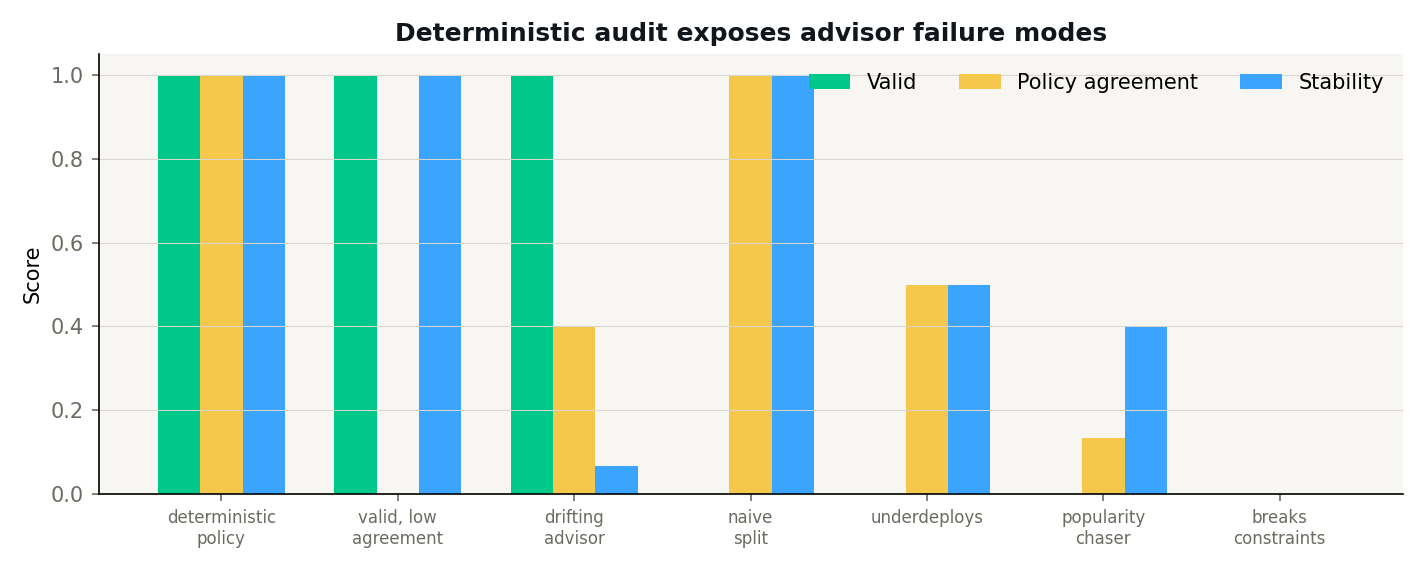
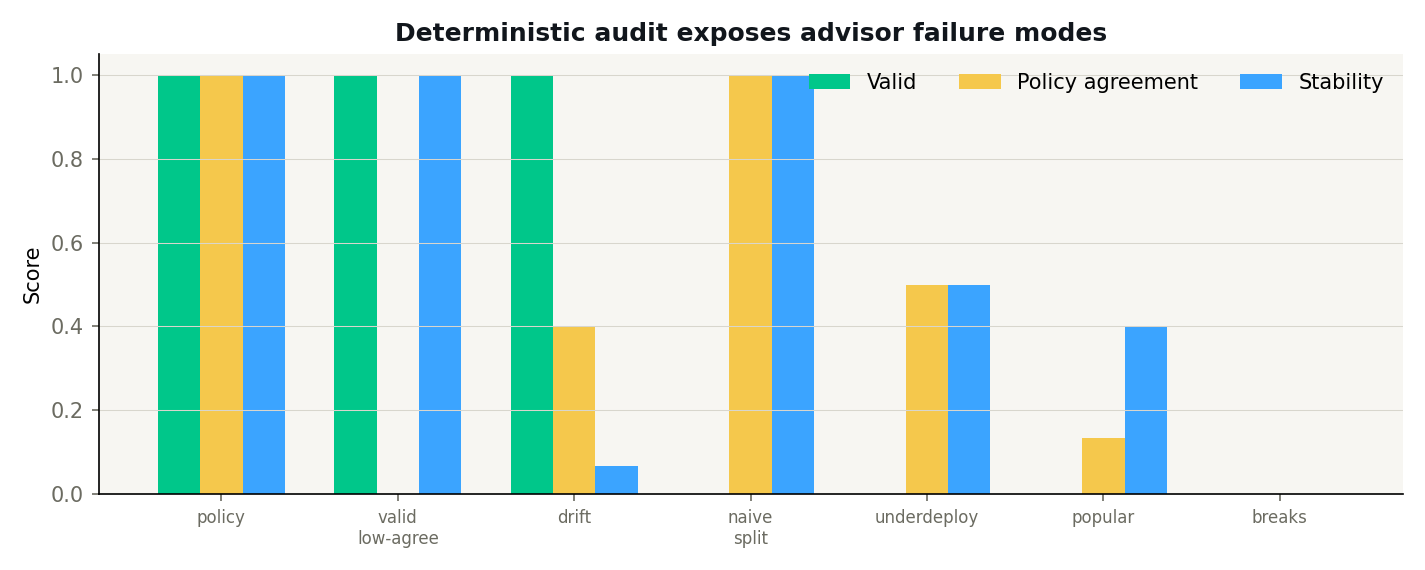
Strengthen finance related work and add TikZ audit figure

diff --git a/paper/main.tex b/paper/main.tex
@@ -5,6 +5,11 @@
 \renewcommand\footnotetextcopyrightpermission[1]{}
 \pagestyle{plain}
 \emergencystretch=2em
+\usepackage{pgfplots}
+\pgfplotsset{compat=1.18}
+\definecolor{arenaGreen}{HTML}{00C78A}
+\definecolor{arenaGold}{HTML}{F5C84C}
+\definecolor{arenaBlue}{HTML}{3BA4FF}
 
 \title{Auditing AI Investment Recommendations Against a Deterministic,
 Replayable Baseline}
@@ -26,8 +31,8 @@ compounding policy with provable cost guardrails---together with an audit
 protocol that scores any advisor on three independent axes: operational
 \emph{validity} under explicit constraints, \emph{stability} across repeated
 runs, and \emph{agreement} with the baseline. On a set of frozen scenarios we
-show the axes are independent: a control that agrees perfectly with the policy
-and is perfectly stable is nonetheless \emph{invalid} because it wastes fees,
+show the axes are independent: a control with $\mathrm{agree}=1.0$ and
+$\mathrm{stab}=1.0$ is nonetheless \emph{invalid} because it wastes fees,
 while a valid control is unstable. An evaluation that reports only
 recommendation overlap would rank both as good advice. The baseline earns its
 role as a yardstick through reproducibility: its cost behavior is provable (the
@@ -67,8 +72,9 @@ yardstick rests on reproducibility, not on a claim to beat the market.
 \begin{enumerate}
   \item An audit protocol and a frozen-scenario benchmark that score any advisor
   on validity, stability, and agreement, and a finding that these axes are
-  \emph{independent}: a control can agree perfectly and be perfectly stable yet
-  be invalid, so agreement-only evaluation is misleading (Section~\ref{sec:audit}).
+  \emph{independent}: a control can reach $\mathrm{agree}=1.0$ and
+  $\mathrm{stab}=1.0$ yet be invalid, so agreement-only evaluation is
+  misleading (Section~\ref{sec:audit}).
   \item The deterministic baseline that makes the protocol trustworthy: its fee
   is provably subadditive and its economic order floor is a closed-form fixed
   point (Sections~\ref{sec:fees}--\ref{sec:guardrail}); exhaustive reproducible
@@ -86,45 +92,46 @@ Our work sits at the intersection of four lines.
 
 \paragraph{What to own: quality and profitability.}
 Factor research establishes durable signals for security selection: gross
-profitability \cite{novyMarx2013} and the quality-minus-junk composite
-\cite{asness2019qmj}. We treat selection as given and do not propose a new
-factor; our scoring reuses these signals only to rank an existing basket. The
-contribution is orthogonal---the layer that decides \emph{how to deploy cash}
-into an already-chosen basket, net of frictions.
+profitability \cite{novyMarx2013}, the quality-minus-junk composite
+\cite{asness2019qmj}, and high-dimensional machine-learning predictors in the
+cross-section \cite{gu2020machine}. We treat selection as given and do not
+propose a new factor; our scoring reuses such signals only to rank an existing
+basket. This choice matters for scope. A stock-picking paper must show
+out-of-sample alpha against factor and machine-learning baselines. Our claim is
+orthogonal---the layer that audits \emph{whether advice can be executed}
+replayably and cheaply once a candidate set exists.
 
 \paragraph{How to trade it: transaction-cost theory and planning.}
 Classical theory shows that transaction costs induce a \emph{no-trade region}:
 proportional costs make the optimal policy a band around the target where one
-does not rebalance \cite{constantinides1986capital, davis1990portfolio}. Fixed
-plus linear costs turn allocation into a mixed-integer or convex program
-\cite{lobo2007portfolio}, and richer institutional models add liquidity and
-market-impact terms \cite{zhang2019dynamic}. On the operational side, rebalancing
-under fixed per-transaction fees can be cast as a planning problem solved by
-linear programming or heuristic search \cite{delarosa2023planning}. We differ on
-three axes. First, our fee is \emph{quantized}---a step function in order
-size---so the object of study is its subadditivity, not a smooth or purely linear
-cost. Second, we analyze the recurring \emph{incremental} deployment of small
-cash rather than a one-shot rebalance or a full trade plan. Third, we prioritize
-closed-form, auditable guardrails over numerical optimality, because a decision a
-retail investor cannot inspect is a decision they cannot trust. The fixed-cost
-guardrail is the small-cash analogue of the no-trade region: below the floor, the
-optimal action is to hold.
+does not rebalance \cite{constantinides1986capital, davis1990portfolio}. With
+multiple assets, costs produce explicit no-trade geometry
+\cite{liu2004transaction}, partial adjustment under predictable returns
+\cite{garleanu2013dynamic}, mixed-integer or convex programs
+\cite{lobo2007portfolio}, and liquidity or market-impact terms
+\cite{zhang2019dynamic}. Fixed-fee rebalancing can also be posed as linear
+programming or heuristic search \cite{delarosa2023planning}. Our object is
+narrower and more auditable: recurring small-cash deployment under a quantized
+step fee. The fixed-cost guardrail is the small-cash analogue of the no-trade
+region: below the floor, the optimal action is to hold.
 
 \paragraph{Evaluating learned investment advice.}
 A fast-growing line uses language models to recommend assets or build portfolios
 and evaluates them mainly by return or by alignment with a reference: media-driven
 LLM portfolios report strong but short-horizon gains \cite{oh2025alpha}, and
 knowledge-graph-aligned recommenders are scored on behavioral alignment
-\cite{spadea2025flarko}. A complementary line documents failure modes a return or
-overlap score cannot see: LLM risk assessments vary with irrelevant demographic
-attributes \cite{chawla2025riskadvice}, and investment analyses carry latent,
-confirmation-seeking bias \cite{lee2025bias}; surveys flag interpretability and
-generalizability as open problems \cite{elalami2025mlfinance}. What is missing is
-a single evaluation that places a learned advisor against a transparent,
-replayable baseline and measures, together, whether its advice is operationally
-\emph{valid}, \emph{stable} across runs, and how far it \emph{agrees} with the
-baseline. We supply that baseline and protocol; the advisor under test may be an
-LLM, a robo-allocator, or a heuristic.
+\cite{spadea2025flarko}. Top-finance evidence on robo-advice is more cautious:
+large-scale field evidence shows that automated advice can reduce behavioral
+biases but does not eliminate them \cite{dacunto2019robo}. A complementary line
+documents failure modes a return or overlap score cannot see: LLM risk
+assessments vary with irrelevant demographic attributes \cite{chawla2025riskadvice},
+and investment analyses carry latent, confirmation-seeking bias \cite{lee2025bias};
+surveys flag interpretability and generalizability as open problems
+\cite{elalami2025mlfinance}. What is missing is a single evaluation that places a
+learned advisor against a transparent, replayable baseline and measures, together,
+whether its advice is operationally \emph{valid}, \emph{stable} across runs, and
+how far it \emph{agrees} with the baseline. We supply that baseline and protocol;
+the advisor under test may be an LLM, a robo-allocator, or a heuristic.
 
 \paragraph{Whether to believe it: reproducibility over overfitting.}
 A large fraction of reported strategy performance does not survive out of
@@ -200,8 +207,8 @@ score it on:
 To show that no single axis substitutes for the others, we run the protocol on
 seven deterministic \emph{archetype} controls across frozen scenarios---failure
 modes by construction, not model outputs
-(Figure~\ref{fig:audit}). Two are decisive. A \emph{naive diversifier} that
-agrees perfectly with the baseline ($\mathrm{agree}=1.0$) and never wavers
+(Figure~\ref{fig:audit}). Two are decisive. A \emph{naive diversifier} with
+$\mathrm{agree}=1.0$ against the baseline and no repeated-run drift
 ($\mathrm{stab}=1.0$) is nonetheless \emph{invalid} ($\mathrm{valid}=0.0$): it
 splits sub-tranche cash and pays an avoidable fee. Conversely a
 \emph{valid-but-disagreeing} control is fully valid and stable yet shares
@@ -212,7 +219,7 @@ therefore independent axes; an advisor benchmark must report all three.
 
 \begin{figure}[t]
   \centering
-  \includegraphics[width=\columnwidth]{figures/ai_advisor_audit.png}
+  \input{figures/ai_advisor_audit.tikz}
   \caption{Validity, agreement, and stability for the archetype controls. The
   naive diversifier (high agreement and stability, zero validity) and the
   valid-but-disagreeing control (high validity and stability, zero agreement)

diff --git a/scripts/run_ai_advisor_audit.py b/scripts/run_ai_advisor_audit.py
@@ -33,6 +33,7 @@ ROOT = Path(__file__).resolve().parent.parent
 DEFAULT_SCENARIOS = ROOT / "paper" / "data" / "ai_advisor_scenarios.json"
 REFERENCE_OUTPUT = ROOT / "paper" / "data" / "ai_advisor_audit_reference.json"
 FIGURE_OUTPUT = ROOT / "paper" / "figures" / "ai_advisor_audit.png"
+TIKZ_OUTPUT = ROOT / "paper" / "figures" / "ai_advisor_audit.tikz"
 EXPORT_DIR = ROOT / "exports"
 
 CARBON = "#11161c"
@@ -214,6 +215,65 @@ def figure_advisor_audit(summary: dict[str, Any], path: Path) -> None:
     plt.close(fig)
 
 
+def write_advisor_audit_tikz(summary: dict[str, Any], path: Path) -> None:
+    labels = sorted(summary["by_advisor"], key=advisor_sort_key)
+    rows = [
+        (
+            display_label(label).replace("\n", "\\\\"),
+            summary["by_advisor"][label]["mean_valid_rate"],
+            summary["by_advisor"][label]["mean_policy_jaccard"],
+            summary["by_advisor"][label]["mean_stability"],
+        )
+        for label in labels
+    ]
+    coordinates = {
+        "valid": " ".join(
+            f"({index + 1},{valid:.3f})"
+            for index, (_, valid, _, _) in enumerate(rows)
+        ),
+        "agreement": " ".join(
+            f"({index + 1},{agreement:.3f})"
+            for index, (_, _, agreement, _) in enumerate(rows)
+        ),
+        "stability": " ".join(
+            f"({index + 1},{stability:.3f})"
+            for index, (_, _, _, stability) in enumerate(rows)
+        ),
+        "labels": ",".join(label for label, *_ in rows),
+    }
+    path.write_text(
+        rf"""\begin{{tikzpicture}}
+\begin{{axis}}[
+  ybar,
+  width=\columnwidth,
+  height=0.42\columnwidth,
+  ymin=0,
+  ymax=1.05,
+  bar width=2.6pt,
+  enlarge x limits=0.08,
+  ylabel={{Score}},
+  symbolic x coords={{1,2,3,4,5,6,7}},
+  xtick={{1,2,3,4,5,6,7}},
+  xticklabels={{{coordinates["labels"]}}},
+  x tick label style={{font=\scriptsize, align=center}},
+  ymajorgrids=true,
+  grid style={{draw=black!12}},
+  axis line style={{draw=black!45}},
+  tick style={{draw=black!45}},
+  legend style={{draw=none, fill=none, font=\scriptsize, at={{(0.98,0.98)}}, anchor=north east}},
+  legend columns=3,
+]
+\addplot+[draw=none, fill=arenaGreen] coordinates {{{coordinates["valid"]}}};
+\addplot+[draw=none, fill=arenaGold] coordinates {{{coordinates["agreement"]}}};
+\addplot+[draw=none, fill=arenaBlue] coordinates {{{coordinates["stability"]}}};
+\legend{{Valid,Agreement,Stability}}
+\end{{axis}}
+\end{{tikzpicture}}
+""",
+        encoding="utf-8",
+    )
+
+
 def advisor_sort_key(label: str) -> tuple[int, str]:
     order = {
         "deterministic_policy": 0,
@@ -229,13 +289,13 @@ def advisor_sort_key(label: str) -> tuple[int, str]:
 
 def display_label(label: str) -> str:
     names = {
-        "constraint_breaker": "breaks\nconstraints",
-        "deterministic_policy": "deterministic\npolicy",
-        "drifting_advisor": "drifting\nadvisor",
+        "constraint_breaker": "breaks",
+        "deterministic_policy": "policy",
+        "drifting_advisor": "drift",
         "naive_diversifier": "naive\nsplit",
-        "popularity_chaser": "popularity\nchaser",
-        "underdeploying_advisor": "underdeploys",
-        "valid_but_low_agreement": "valid, low\nagreement",
+        "popularity_chaser": "popular",
+        "underdeploying_advisor": "underdeploy",
+        "valid_but_low_agreement": "valid\nlow-agree",
     }
     return names.get(label, label.replace("_", "\n"))
 
@@ -247,6 +307,7 @@ def parse_args() -> argparse.Namespace:
     parser.add_argument("--reference", action="store_true")
     parser.add_argument("--markdown", type=Path)
     parser.add_argument("--figure", type=Path, default=FIGURE_OUTPUT)
+    parser.add_argument("--tikz", type=Path, default=TIKZ_OUTPUT)
     return parser.parse_args()
 
 
@@ -265,6 +326,8 @@ def main() -> None:
     write_markdown(summary, markdown)
     args.figure.parent.mkdir(parents=True, exist_ok=True)
     figure_advisor_audit(summary, args.figure)
+    args.tikz.parent.mkdir(parents=True, exist_ok=True)
+    write_advisor_audit_tikz(summary, args.tikz)
     print(
         "AI advisor audit: "
         f"valid={summary['overall']['mean_valid_rate']:.3f} "
@@ -274,6 +337,7 @@ def main() -> None:
     print(f"Wrote {output}")
     print(f"Wrote {markdown}")
     print(f"Wrote {args.figure}")
+    print(f"Wrote {args.tikz}")
 
 
 if __name__ == "__main__":

diff --git a/docs/SCIENTIFIC_LEDGER.md b/docs/SCIENTIFIC_LEDGER.md
@@ -175,6 +175,24 @@ Evidence:
 - `scripts/run_ai_advisor_audit.py`
 - tests in `tests/unit/test_ai_advisor_benchmark.py`
 
+### F11. Top-finance related work narrows the claim to auditability
+
+Adding anchors from empirical asset pricing, transaction-cost optimization, and
+robo-advising clarified the defensible gap. Prior finance work already owns
+stock-selection alpha, multi-asset trading with costs, and household
+robo-advice outcomes. The project should not claim state-of-the-art investment
+performance without factor-adjusted evidence. Its current delta is the
+reproducible audit boundary between generated advice and executable portfolio
+decisions: frozen inputs, deterministic replay, operational validity, stability,
+and agreement reported as separate axes.
+
+Evidence:
+
+- `paper/main.tex` (Related Work)
+- `paper/references.bib` (`gu2020machine`, `liu2004transaction`,
+  `garleanu2013dynamic`, `dacunto2019robo`)
+- `paper/figures/ai_advisor_audit.tikz`
+
 ## State-of-the-Art Reference Points
 
 The project should be compared against these families, not against vague
@@ -197,6 +215,11 @@ Reference anchors:
 - Novy-Marx (2013), gross profitability premium.
 - Asness, Frazzini, and Pedersen (2019), quality-minus-junk.
 - DeMiguel, Garlappi, and Uppal (2009), naive `1/N` diversification.
+- Gu, Kelly, and Xiu (2020), machine learning asset pricing.
+- Liu (2004), multi-asset trading with transaction costs.
+- Garleanu and Pedersen (2013), dynamic trading with predictable returns and
+  transaction costs.
+- D'Acunto, Prabhala, and Rossi (2019), robo-advising benefits and limits.
 - Morningstar Wide Moat Focus methodology, as a public moat-plus-valuation
   reference point.
 - Financial AI and robo-advisory work tracked in `docs/AI_FINANCE_SOTA.md`.
